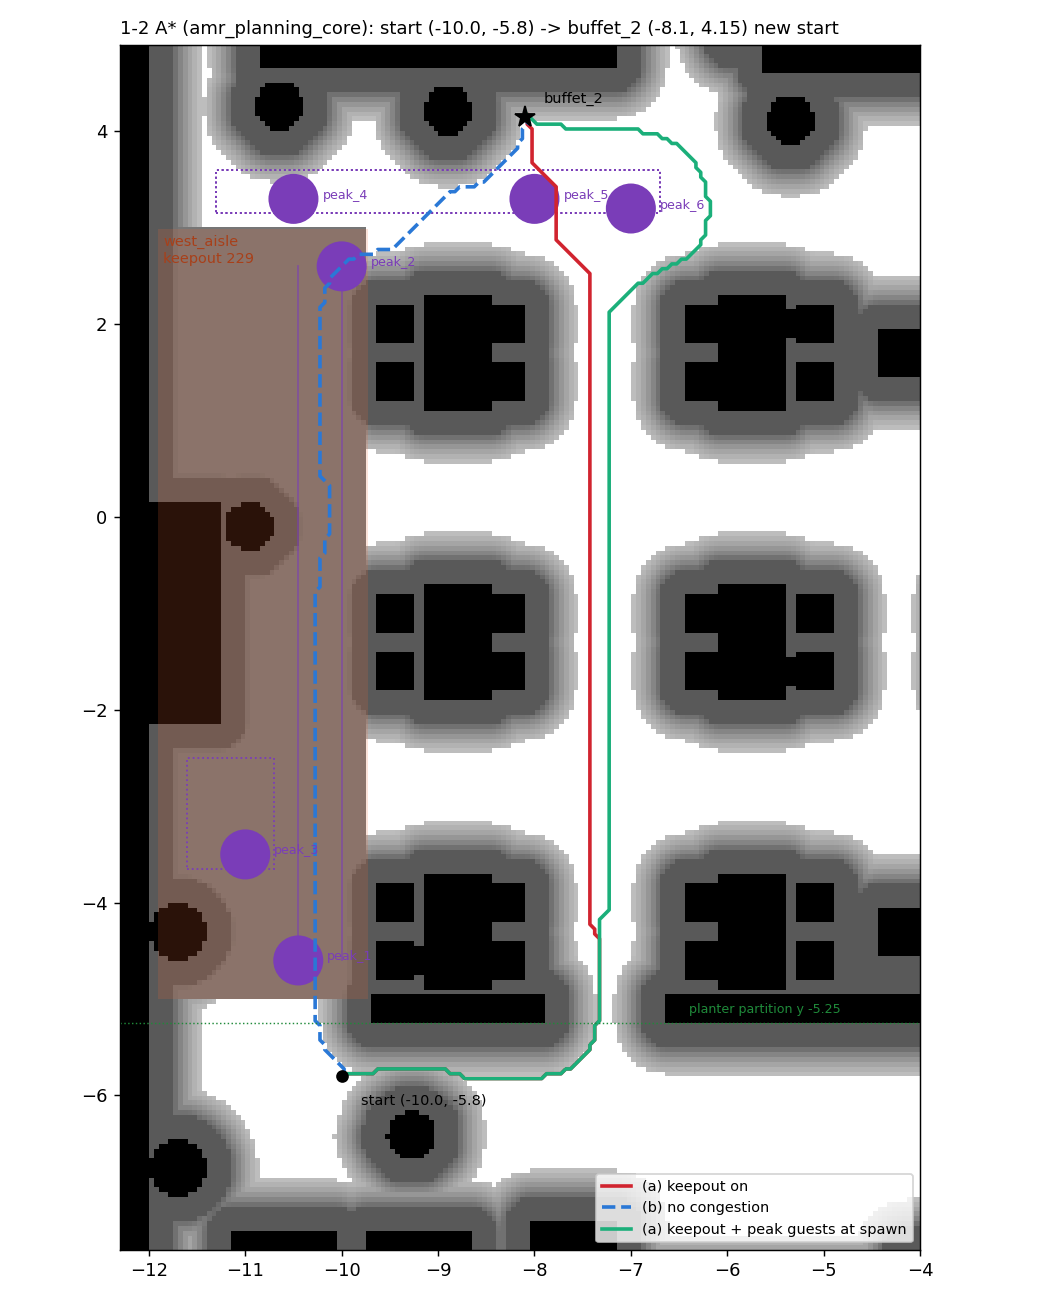
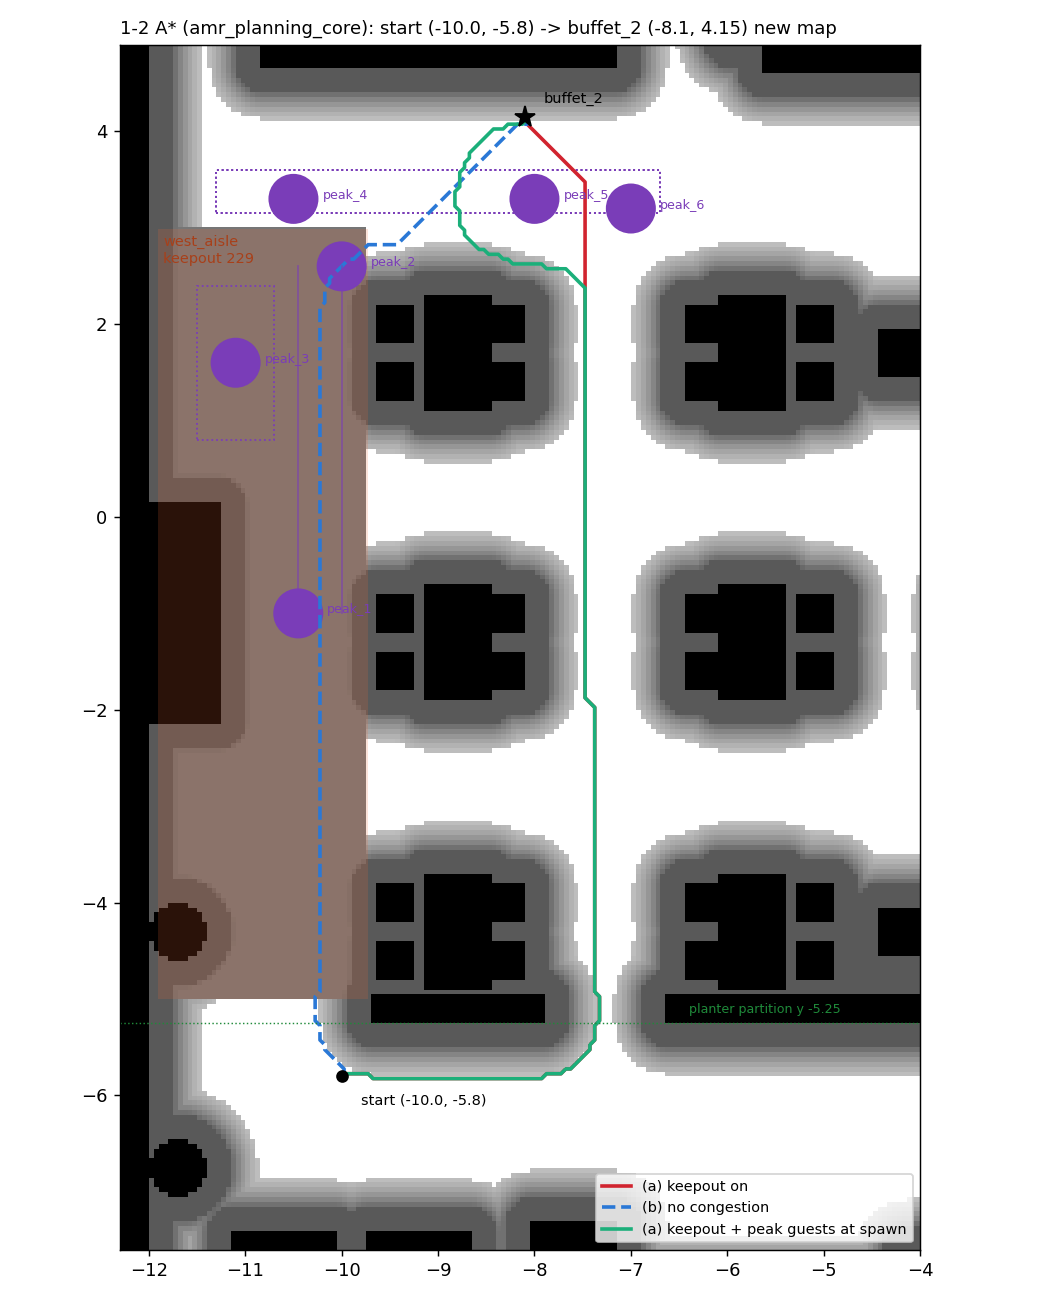
test(restaurant_demo): recheck the scene 1-2 start on the regenerated map
A* on the restaurant_gt regenerated in #341 keeps (-10.0, -5.8): without congestion the route goes up the west aisle (11.25 m), with the west aisle at keepout cost 229 it takes the x -7.275 detour (12.75 m, 13.33 m from the old spot), and guest paths stay 1.2 m away (2.0 m in the 1-2 guest file). The candidate table, figure and the comment in robots_restaurant_s12.yaml are updated.

diff --git a/experiments/restaurant_demo/scene_plan/README.md b/experiments/restaurant_demo/scene_plan/README.md
@@ -60,29 +60,31 @@ python3 $D/detour.py --map ... --zones ... --stations ... --astar /tmp/astar_cli
 
 ## 1-2 1호 출발 자리 (robots_restaurant_s12.yaml)
 
-조건: (a) 혼잡 없으면 서쪽 통로가 가장 짧다 (b) 서쪽 통로 비용 229면 x -7.275 우회 통로로 간다 (c) 손님·직원 경로(피크·1-2 피크·직원 파일의
-직선·곡선 경로, 무작위 범위, 스폰)가 1 m 밖 (d) 동쪽을 본다(yaw 0). 우회 경로가 예전(13.37 m)보다 짧은 것 중 고른다.
-길이는 출발 → buffet_2 A* (m). 여유 = (b) − (a): 작으면 혼잡 없이도 손님(장애물) 몇 명에 우회로를 골라 끔/켬 차이가 사라진다.
+조건: (a) 혼잡 없으면 서쪽 통로가 가장 짧다 (b) 서쪽 통로 비용 229면 x -7.275 우회 통로로 간다 (c) 손님 경로(직선·곡선 경로,
+무작위 범위, 스폰)가 1 m 밖 (d) 동쪽을 본다(yaw 0). 우회 경로가 예전 자리보다 짧은 것 중 고른다.
+11/8 #341 새 restaurant_gt로 다시 계산했다. 길이는 출발 → buffet_2 A* (m). 여유 = (b) − (a): 작으면 혼잡 없이도 손님(장애물) 몇 명에
+우회로를 골라 끔/켬 차이가 사라진다. 손님 거리는 피크·1-2 피크·직원 파일 중 가장 가까운 것 (1-2가 쓰는 1-2 피크 파일만이면 괄호).
 
 | 출발 자리 | (a) 혼잡 없음 | (b) keepout | 여유 | 가장 가까운 손님 경로 | 정적 여유 | 판정 |
 | --- | --- | --- | --- | --- | --- | --- |
-| (-10.5, -5.6) 예전 | 11.18 서쪽 | 13.37 우회 | 2.19 | 1.00 (peak_1) | 0.87 | 기준 |
-| (-10.8, -5.8) | 11.52 서쪽 | 13.64 우회 | 2.12 | 1.25 | 1.03 | 우회가 더 길다 |
-| (-10.5, -5.8) | 11.38 서쪽 | 13.29 우회 | 1.91 | 1.20 | 0.97 | 줄어든 게 0.08 m |
-| (-10.2, -5.8) | 11.34 서쪽 | 12.99 우회 | 1.65 | 1.22 | 0.74 | 가능 |
-| **(-10.0, -5.8)** | **11.42 서쪽** | **12.79 우회** | **1.37** | **1.20 (peak_2)** | **0.63** | **고름** |
-| (-9.9, -5.8) | 11.44 서쪽 | 12.74 우회 | 1.30 | 1.20 | 0.60 | 가능 |
-| (-9.8, -5.8) | 11.54 서쪽 | 12.64 우회 | 1.10 | 1.22 | 0.57 | 여유 1.1 m |
-| (-9.5, -5.7) | 11.91 서쪽 | 12.27 우회 | 0.36 | 1.21 | 0.47 | 여유 작음 |
-| (-9.3, -5.7) | 12.06 서쪽 | 12.12 우회 | 0.06 | 1.30 (customer_6) | 0.45 | 여유 없음 |
-| (-9.0, -5.7) | 11.77 우회 | 11.77 우회 | 0 | 1.00 | 0.50 | (a) 실패: 혼잡 없이도 우회 |
-| (-8.8, -5.7) | 11.62 우회 | 11.62 우회 | 0 | 0.80 | 0.50 | (a)·(c) 실패 |
+| (-10.5, -5.6) 예전 | 11.01 서쪽 | 13.33 우회 | 2.32 | 1.00 (2.5) | 0.87 | 기준 |
+| (-10.8, -5.8) | 11.35 서쪽 | 13.60 우회 | 2.25 | 1.25 | 1.03 | 우회가 더 길다 |
+| (-10.5, -5.8) | 11.21 서쪽 | 13.25 우회 | 2.04 | 1.20 | 0.97 | 줄어든 게 0.08 m |
+| (-10.2, -5.8) | 11.17 서쪽 | 12.95 우회 | 1.78 | 1.22 | 0.74 | 가능 |
+| **(-10.0, -5.8)** | **11.25 서쪽** | **12.75 우회** | **1.50** | **1.20 (2.0)** | **0.63** | **고름** |
+| (-9.9, -5.8) | 11.27 서쪽 | 12.70 우회 | 1.43 | 1.20 | 0.60 | 가능 |
+| (-9.8, -5.8) | 11.37 서쪽 | 12.60 우회 | 1.23 | 1.22 | 0.57 | 가능 |
+| (-9.5, -5.7) | 11.81 서쪽 | 12.30 우회 | 0.49 | 1.21 | 0.50 | 여유 작음 |
+| (-9.3, -5.7) | 11.96 서쪽 | 12.15 우회 | 0.19 | 1.30 | 0.50 | 여유 없음 |
+| (-9.0, -5.7) | 11.80 우회 | 11.80 우회 | 0 | 1.00 | 0.50 | (a) 실패: 혼잡 없이도 우회 |
+| (-8.8, -5.7) | 11.65 우회 | 11.65 우회 | 0 | 0.80 | 0.50 | (a)·(c) 실패 |
 
-(-10.0, -5.8)을 고른 이유: 우회 경로가 0.58 m 줄고, 서쪽 통로가 우회보다 1.37 m 짧아 혼잡 없는 쪽은 서쪽 통로로 가며, 정적 여유
+(-10.0, -5.8)을 고른 이유: 우회 경로가 0.58 m 줄고, 서쪽 통로가 우회보다 1.50 m 짧아 혼잡 없는 쪽은 서쪽 통로로 가며, 정적 여유
 0.63 m(외접 반경 0.40 m보다 넓다)로 동쪽을 본 채 바로 출발한다. 더 동쪽은 우회가 더 짧아지지만 두 길 차이가 1 m 밑으로 줄고
 남쪽 통로 손님(customer_6 무작위 범위 x -8.0부터)에 가까워진다. 남쪽 통로는 칸막이(y -5.25) 남쪽이라 출발 자리를 북쪽으로
 옮길 수는 없다(칸막이 북쪽은 서쪽 통로 구역 안이거나 테이블 열이다).
 
-![1-2 출발 (-10.0, -5.8)](s12_start.png)
+![1-2 출발 (-10.0, -5.8), 새 지도](s12_start.png)
 
-빨강 (a) keepout, 파랑 (b) 혼잡 없음, 초록 (a)에 1-2 피크 손님을 시작 자리에 세운 것 (14.6 m, 여전히 우회).
+빨강 (a) keepout 12.75 m, 파랑 (b) 혼잡 없음 11.25 m, 초록 (a)에 1-2 피크 손님을 시작 자리에 세운 것 (13.92 m, 여전히 우회).
+칸막이(y -5.25)는 x -7.32 틈으로 지난다 (여유 0.55 m, 로봇 외접 반경 0.40 m).
